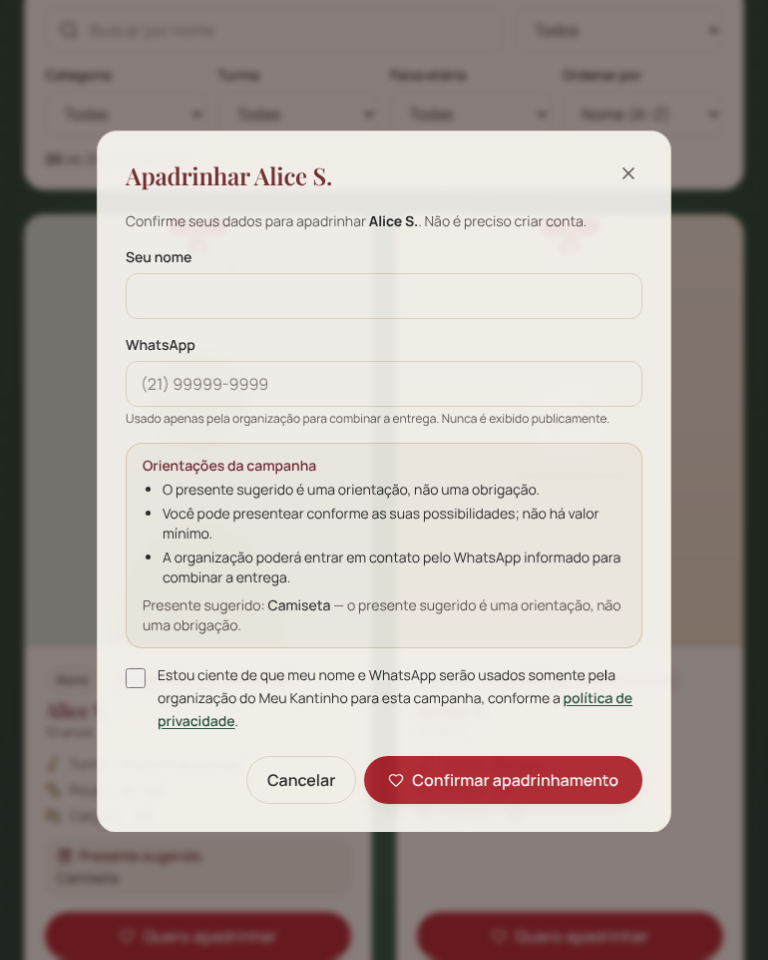
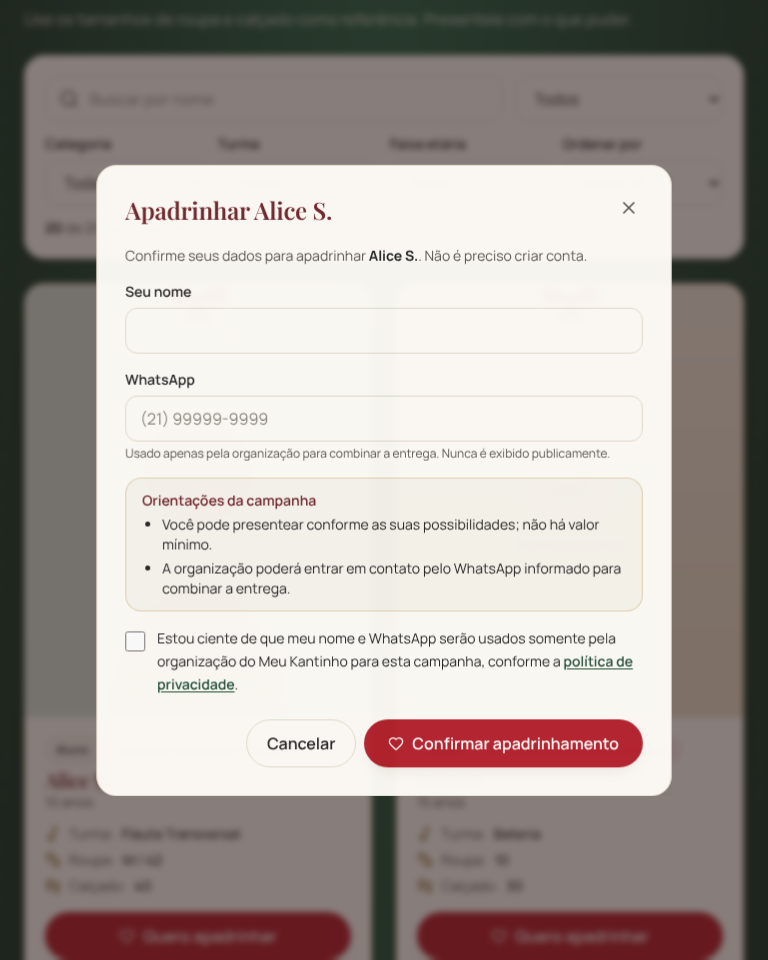
Remove 'presente sugerido' do site (cards, janela de apadrinhar, textos, privacidade, painel e relatórios)
Claude-Session: https://claude.ai/code/session_01MHJVeojKSKwbUj19d8FMWv

diff --git a/src/config/campaign.ts b/src/config/campaign.ts
@@ -33,16 +33,15 @@ export const CAMPAIGN_TEXTS = {
   mainMessage: 'Compartilhe amor e veja o Natal se multiplicar em sorrisos.',
   heroTitle: 'Apadrinhamento de Natal 2026',
   institutionalMessage:
-    'O Natal é tempo de amor, de carinho e de gestos que aquecem o coração. Você pode apadrinhar um participante e presentear com o que puder. Não precisa ser exatamente o que foi pedido. O que vale é o cuidado, o afeto e o acolhimento.',
+    'O Natal é tempo de amor, de carinho e de gestos que aquecem o coração. Você pode apadrinhar um participante e presentear com o que puder. O que vale é o cuidado, o afeto e o acolhimento.',
   chain: 'Participe dessa corrente de amor e faça parte dessa magia de Natal.',
-  giftNote: 'O presente sugerido é uma orientação, não uma obrigação.',
+  giftNote: 'Use os tamanhos de roupa e calçado como referência.',
   steps: [
     { title: 'Escolha um participante', text: 'Navegue pelo catálogo e escolha quem você gostaria de presentear.' },
     { title: 'Confirme seu apadrinhamento', text: 'Informe seu nome e WhatsApp. Não é preciso criar conta.' },
     { title: 'Prepare seu presente com carinho', text: 'Presenteie com o que puder. O cuidado é o que vale.' },
   ],
   guidelines: [
-    'O presente sugerido é uma orientação, não uma obrigação.',
     'Você pode presentear conforme as suas possibilidades; não há valor mínimo.',
     'A organização poderá entrar em contato pelo WhatsApp informado para combinar a entrega.',
   ],
@@ -68,3 +67,9 @@ export const DATA_MODE = (import.meta.env.VITE_DATA_MODE as string | undefined) 
 /** Pré-visualização embutida (ex.: página no claude.ai): roteamento em memória, sem URLs próprias. */
 export const IS_EMBED = (import.meta.env.VITE_ROUTER as string | undefined) === 'memory';
 export const PHOTO_MODE = (import.meta.env.VITE_PHOTO_MODE as string | undefined) === 'storage' ? 'storage' : 'inline';
+
+/** Esta campanha não usa presente sugerido: remove menções a ele de textos salvos na campanha. */
+const GIFT_HINT = /presente sugerido|o que foi pedido/i;
+export const campaignGuidelines = (list?: string[]) => (list?.length ? list : CAMPAIGN_TEXTS.guidelines).filter((g) => !GIFT_HINT.test(g));
+export const cleanInstitutional = (text?: string) =>
+  (text ?? CAMPAIGN_TEXTS.institutionalMessage).split(/(?<=[.!?])\s+/).filter((f) => !GIFT_HINT.test(f)).join(' ');

diff --git a/src/components/SponsorDialog.tsx b/src/components/SponsorDialog.tsx
@@ -5,7 +5,7 @@ import type { Campaign, PublicParticipant, SponsorResult } from '@/types';
 import { Dialog } from './ui/Dialog';
 import { ChristmasCelebration, CelebrationBoundary } from './ChristmasCelebration';
 import { GiftBoxArt } from './decor/Decor';
-import { CAMPAIGN_TEXTS, IS_EMBED, SITE_URL } from '@/config/campaign';
+import { CAMPAIGN_TEXTS, IS_EMBED, SITE_URL, campaignGuidelines } from '@/config/campaign';
 import { isValidBrPhone, maskPhone } from '@/lib/phone';
 import { useData } from '@/hooks/DataContext';
 import { useClipboard } from '@/hooks/useClipboard';
@@ -99,7 +99,7 @@ export function SponsorDialog({ participant, live, campaign, onClose, onConfirme
           <div className="mx-auto mt-4 max-w-md text-left text-sm">
             <p className="font-semibold text-burgundy">Orientações</p>
             <ul className="mt-1 list-disc space-y-1 pl-5 text-graphite">
-              {(campaign.guidelines?.length ? campaign.guidelines : CAMPAIGN_TEXTS.guidelines).map((g) => <li key={g}>{g}</li>)}
+              {campaignGuidelines(campaign.guidelines).map((g) => <li key={g}>{g}</li>)}
               <li>{campaign.deliveryInfo?.trim() || CAMPAIGN_TEXTS.deliveryFallback}</li>
             </ul>
             <p className="mt-2 text-xs text-muted">Guarde o número do protocolo. Ele identifica o seu apadrinhamento junto à organização.</p>
@@ -147,9 +147,8 @@ export function SponsorDialog({ participant, live, campaign, onClose, onConfirme
             <div className="rounded-2xl border border-gold/40 bg-cream px-4 py-3 text-sm">
               <p className="font-semibold text-burgundy">Orientações da campanha</p>
               <ul className="mt-1 list-disc space-y-1 pl-5">
-                {(campaign.guidelines?.length ? campaign.guidelines : CAMPAIGN_TEXTS.guidelines).map((g) => <li key={g}>{g}</li>)}
+                {campaignGuidelines(campaign.guidelines).map((g) => <li key={g}>{g}</li>)}
               </ul>
-              {participant.giftSuggestion && <p className="mt-2 text-muted">Presente sugerido: <span className="font-medium text-graphite">{participant.giftSuggestion}</span> — {CAMPAIGN_TEXTS.giftNote.toLowerCase()}</p>}
             </div>
             <div className="flex items-start gap-3">
               <input id={ids.consent} type="checkbox" checked={consent} onChange={(e) => setConsent(e.target.checked)} disabled={locked}

diff --git a/src/services/exporter.ts b/src/services/exporter.ts
@@ -35,8 +35,8 @@ export function buildReport(key: ReportKey, d: ReportData, f: ReportFilters = {}
   const spBy = new Map(d.sponsorships.map((s) => [s.participantId, s]));
   let ps = d.participants.filter((p) => (f.includeArchived || !p.archived) && (!f.category || p.category === f.category) && (!f.group || p.group === f.group));
   ps = ps.sort((a, b) => a.fullName.localeCompare(b.fullName, 'pt-BR'));
-  const pRow = (p: PrivateParticipant) => [p.fullName, p.displayName, p.category, p.age ?? '', p.group, p.clothingSize, p.shoeSize, p.giftSuggestion, p.published ? 'Sim' : 'Não', spBy.has(p.id) ? 'Apadrinhado' : 'Disponível'];
-  const pHead = ['Nome completo', 'Nome de exibição', 'Categoria', 'Idade', 'Turma', 'Roupa', 'Calçado', 'Presente sugerido', 'Publicado', 'Situação'];
+  const pRow = (p: PrivateParticipant) => [p.fullName, p.displayName, p.category, p.age ?? '', p.group, p.clothingSize, p.shoeSize, p.published ? 'Sim' : 'Não', spBy.has(p.id) ? 'Apadrinhado' : 'Disponível'];
+  const pHead = ['Nome completo', 'Nome de exibição', 'Categoria', 'Idade', 'Turma', 'Roupa', 'Calçado', 'Publicado', 'Situação'];
   const spHead = ['Protocolo', 'Participante', 'Turma', 'Padrinho', 'WhatsApp', 'Status', 'Confirmado em', 'Observações'];
   const pById = new Map(d.participants.map((p) => [p.id, p]));
   const spRow = (s: Sponsorship) => [s.protocol, pById.get(s.participantId)?.fullName ?? s.participantDisplayName, pById.get(s.participantId)?.group ?? '', s.sponsorName, formatStoredPhone(s.sponsorPhone), STATUS[s.status] ?? s.status, dt(s.createdAt), s.adminNotes ?? ''];

diff --git a/src/pages/Home.tsx b/src/pages/Home.tsx
@@ -2,7 +2,7 @@ import { useEffect, useMemo, useRef, useState } from 'react';
 import { Gift, HandHeart, Heart, Search, SlidersHorizontal, Sparkles, Users, WifiOff, RefreshCw, XCircle, Globe, Music } from 'lucide-react';
 import type { Campaign, PublicParticipant } from '@/types';
 import { useData } from '@/hooks/DataContext';
-import { CAMPAIGN_TEXTS, DEFAULT_PIX, FALLBACK_CATEGORIES, INSTITUTION, PIX_INTRO, pixKeyLine } from '@/config/campaign';
+import { CAMPAIGN_TEXTS, cleanInstitutional, DEFAULT_PIX, FALLBACK_CATEGORIES, INSTITUTION, PIX_INTRO, pixKeyLine } from '@/config/campaign';
 import { computeStats } from '@/lib/stats';
 import { AGE_BANDS, EMPTY_FILTERS, distinct, filterParticipants, hasActiveFilters, type CatalogFilters } from '@/lib/filters';
 import { ParticipantCard } from '@/components/ParticipantCard';
@@ -33,7 +33,7 @@ function Hero({ campaign }: { campaign: Campaign | null }) {
             {campaign?.heroMessage ?? CAMPAIGN_TEXTS.mainMessage}
           </p>
           <p className="mt-5 max-w-xl text-base leading-relaxed text-cream/85 sm:text-lg">
-            {campaign?.institutionalMessage ?? CAMPAIGN_TEXTS.institutionalMessage}
+            {cleanInstitutional(campaign?.institutionalMessage)}
           </p>
           <div className="mt-9 flex flex-col gap-3 sm:flex-row sm:items-center">
             <a href="#catalogo" className="btn bg-gradient-to-b from-[#FFE08A] to-[#EABF35] px-8 py-3.5 text-base text-burgundy-900 shadow-[0_10px_30px_-8px_rgb(234_191_53/.7)] hover:brightness-105 active:translate-y-px">

diff --git a/src/services/data/demoSeed.ts b/src/services/data/demoSeed.ts
@@ -24,7 +24,6 @@ const LAST = ['Aurora Exemplo', 'Fictício Silva', 'Demonstração Souza', 'Test
 const GROUPS = ['Bateria', 'Percussão', 'Pandeiro', 'Violão', 'Guitarra / Contra-baixo', 'Violino', 'Cavaquinho', 'Flauta Doce', 'Flauta Transversal'];
 const CLOTHES = ['10', '12', '14', 'P', 'M', 'G', 'GG', 'P adulto', 'M / 42'];
 const SHOES = ['30', '32', '34', '36', '38', '38/39', '40', '42', '43'];
-const GIFTS = ['Estante de partitura', 'Capa para instrumento', 'Livro de histórias', 'Jogo de cordas', 'Mochila', 'Fone de ouvido', '', 'Kit de material escolar', 'Camiseta', ''];
 
 export function campaignFor(year: number, status: Campaign['status']): Campaign {
   return {
@@ -67,7 +66,7 @@ export function buildSeed(): DemoSeed {
     const p: PrivateParticipant = {
       id, campaignId: cid, fullName, displayName: displayNameFrom(fullName), category, age, ageRaw: String(age),
       group: GROUPS[i % GROUPS.length], clothingSize: CLOTHES[i % CLOTHES.length], shoeSize: SHOES[(i * 3) % SHOES.length],
-      giftSuggestion: GIFTS[i % GIFTS.length], publicationAuthorized: opts.published, published: opts.published,
+      giftSuggestion: '', publicationAuthorized: opts.published, published: opts.published,
       archived: false, dedupeKey: '', photoData: opts.photo ? syntheticAvatar(i) : undefined,
       createdAt: new Date(Date.UTC(Number(cid), 9, 10 + (i % 15))).toISOString(),
     };

diff --git a/src/pages/Privacy.tsx b/src/pages/Privacy.tsx
@@ -10,7 +10,7 @@ export default function Privacy() {
       <div className="mt-8 space-y-6 leading-relaxed text-graphite">
         <section><h2 className="text-2xl font-semibold text-pine">Quais dados coletamos</h2>
           <p className="mt-2"><strong>Padrinhos e madrinhas:</strong> nome e número de WhatsApp informados no formulário de apadrinhamento. Não pedimos CPF, endereço, dados bancários ou senhas.</p>
-          <p className="mt-2"><strong>Participantes da campanha:</strong> nome de exibição, categoria, idade, turma, tamanhos de roupa e calçado, presente sugerido e fotografia — publicados somente com autorização registrada pela organização. O nome completo fica restrito à equipe.</p>
+          <p className="mt-2"><strong>Participantes da campanha:</strong> nome de exibição, categoria, idade, turma, tamanhos de roupa e calçado e fotografia — publicados somente com autorização registrada pela organização. O nome completo fica restrito à equipe.</p>
         </section>
         <section><h2 className="text-2xl font-semibold text-pine">Para que usamos</h2>
           <p className="mt-2">Exclusivamente para organizar a campanha de Natal: registrar o apadrinhamento, entrar em contato individualmente para combinar a entrega dos presentes e prestar contas internamente. Não há envio de mensagens em massa, venda ou compartilhamento com terceiros.</p>

diff --git a/src/pages/admin/Participants.tsx b/src/pages/admin/Participants.tsx
@@ -55,7 +55,6 @@ function Editor({ initial, onClose }: { initial: ParticipantInput; onClose: () =
           <datalist id="grp-list">{groups.map((c) => <option key={c} value={c} />)}</datalist></label>
         <label><span className="label">Tamanho de roupa</span><input className="field" maxLength={40} value={p.clothingSize} onChange={(e) => set({ clothingSize: e.target.value })} /></label>
         <label><span className="label">Tamanho de calçado</span><input className="field" maxLength={40} value={p.shoeSize} onChange={(e) => set({ shoeSize: e.target.value })} /></label>
-        <label><span className="label">Presente sugerido (opcional)</span><input className="field" maxLength={200} value={p.giftSuggestion} onChange={(e) => set({ giftSuggestion: e.target.value })} /></label>
         <label className="sm:col-span-2"><span className="label">Observações internas</span><textarea className="field min-h-20" maxLength={1000} value={p.notes ?? ''} onChange={(e) => set({ notes: e.target.value })} /></label>
         <label className="flex items-start gap-3 sm:col-span-2">
           <input type="checkbox" className="mt-1 h-5 w-5 accent-pine" checked={p.publicationAuthorized} onChange={(e) => set({ publicationAuthorized: e.target.checked, ...(e.target.checked ? {} : { published: false }) })} />

diff --git a/src/components/ParticipantCard.tsx b/src/components/ParticipantCard.tsx
@@ -93,12 +93,6 @@ export const ParticipantCard = memo(function ParticipantCard({ p, pix, onSponsor
             ))}
           </dl>
         )}
-        {!compact && p.giftSuggestion && (
-          <div className="rounded-xl bg-cream-200/70 px-3 py-2 text-sm">
-            <span className="flex items-center gap-1.5 font-semibold text-burgundy"><Gift className="h-4 w-4" aria-hidden="true" />Presente sugerido</span>
-            <span className="mt-0.5 block text-graphite">{p.giftSuggestion}</span>
-          </div>
-        )}
         <div className="mt-auto pt-1">
           {p.sponsored ? (
             <button type="button" disabled className="btn w-full border border-pine/25 bg-pine/5 px-5 py-2.5 text-pine" aria-label={`${p.displayName} já foi apadrinhado`}>

diff --git a/src/lib/lib.test.ts b/src/lib/lib.test.ts
@@ -95,3 +95,12 @@ describe('padronização de nomes', () => {
     expect(standardizeName('Íris')).toBe('Íris');
   });
 });
+
+import { campaignGuidelines, cleanInstitutional } from '@/config/campaign';
+describe('campanha sem presente sugerido', () => {
+  it('remove menções salvas na campanha', () => {
+    expect(campaignGuidelines(['O presente sugerido é uma orientação, não uma obrigação.', 'Não há valor mínimo.'])).toEqual(['Não há valor mínimo.']);
+    expect(cleanInstitutional('O Natal é tempo de amor. Não precisa ser exatamente o que foi pedido. O que vale é o cuidado.')).toBe('O Natal é tempo de amor. O que vale é o cuidado.');
+    expect(campaignGuidelines(undefined).some((g) => /sugerido/i.test(g))).toBe(false);
+  });
+});

diff --git a/src/services/data/shared.ts b/src/services/data/shared.ts
@@ -12,7 +12,7 @@ export function toPublicFields(p: Pick<PrivateParticipant, 'campaignId' | 'displ
     group: p.group,
     clothingSize: p.clothingSize,
     shoeSize: p.shoeSize,
-    giftSuggestion: p.giftSuggestion,
+    giftSuggestion: '', // campanha sem presente sugerido: nunca publicado
   };
   if (p.photoUrl) out.photoUrl = p.photoUrl;
   if (p.photoData) out.photoData = p.photoData;
